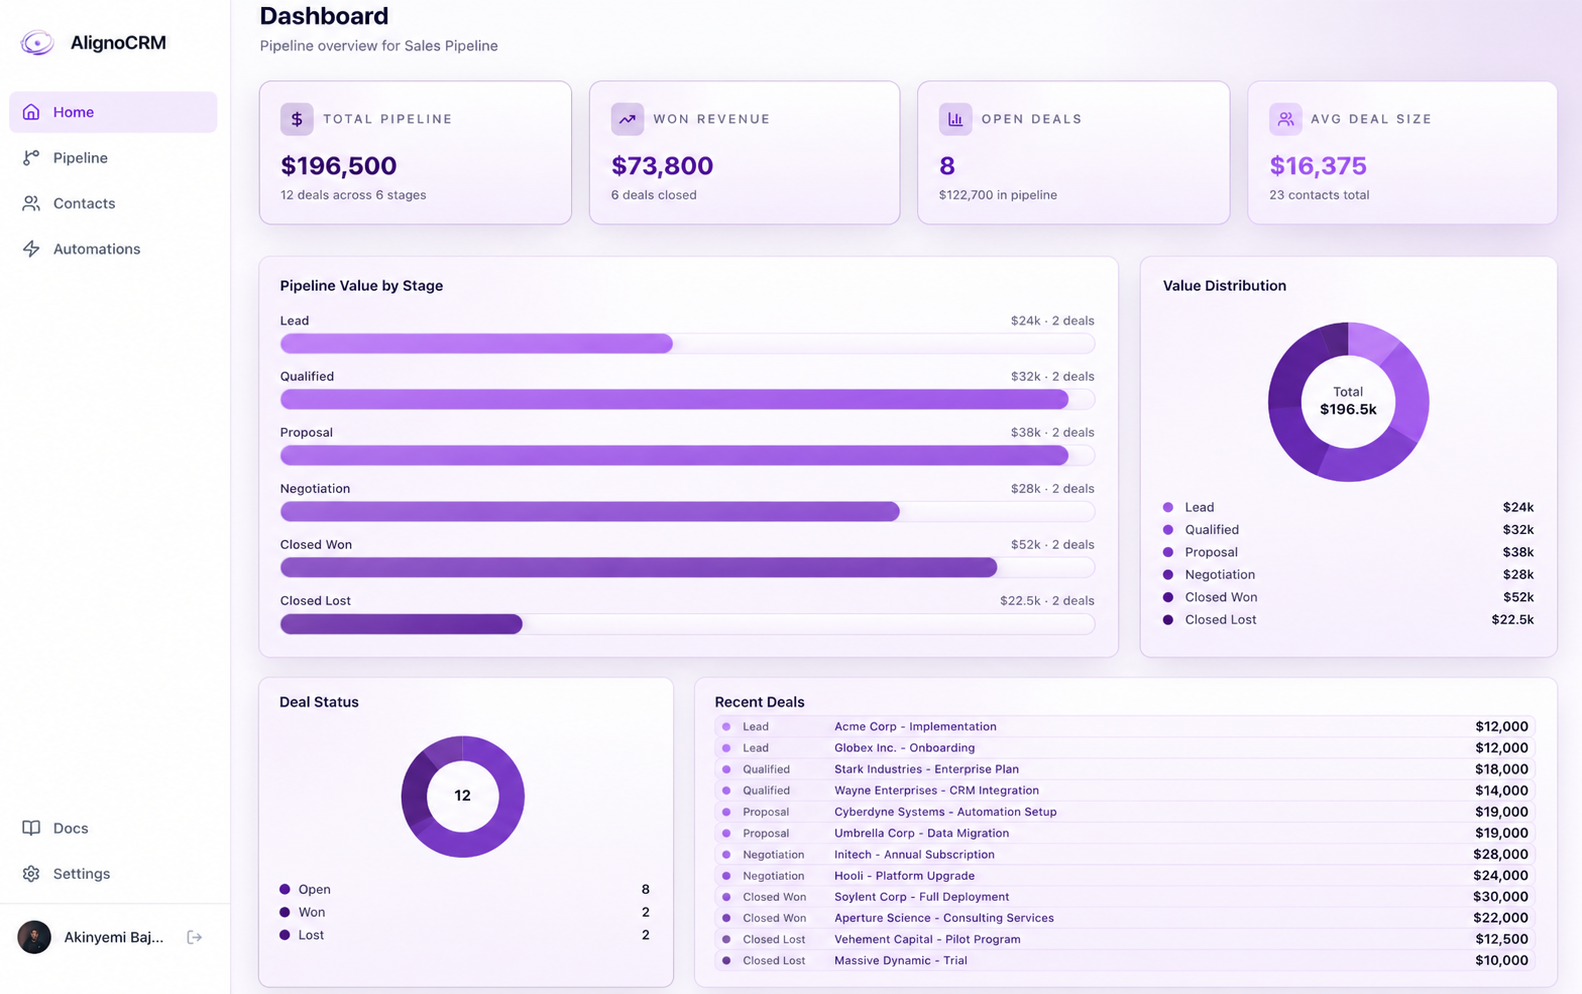
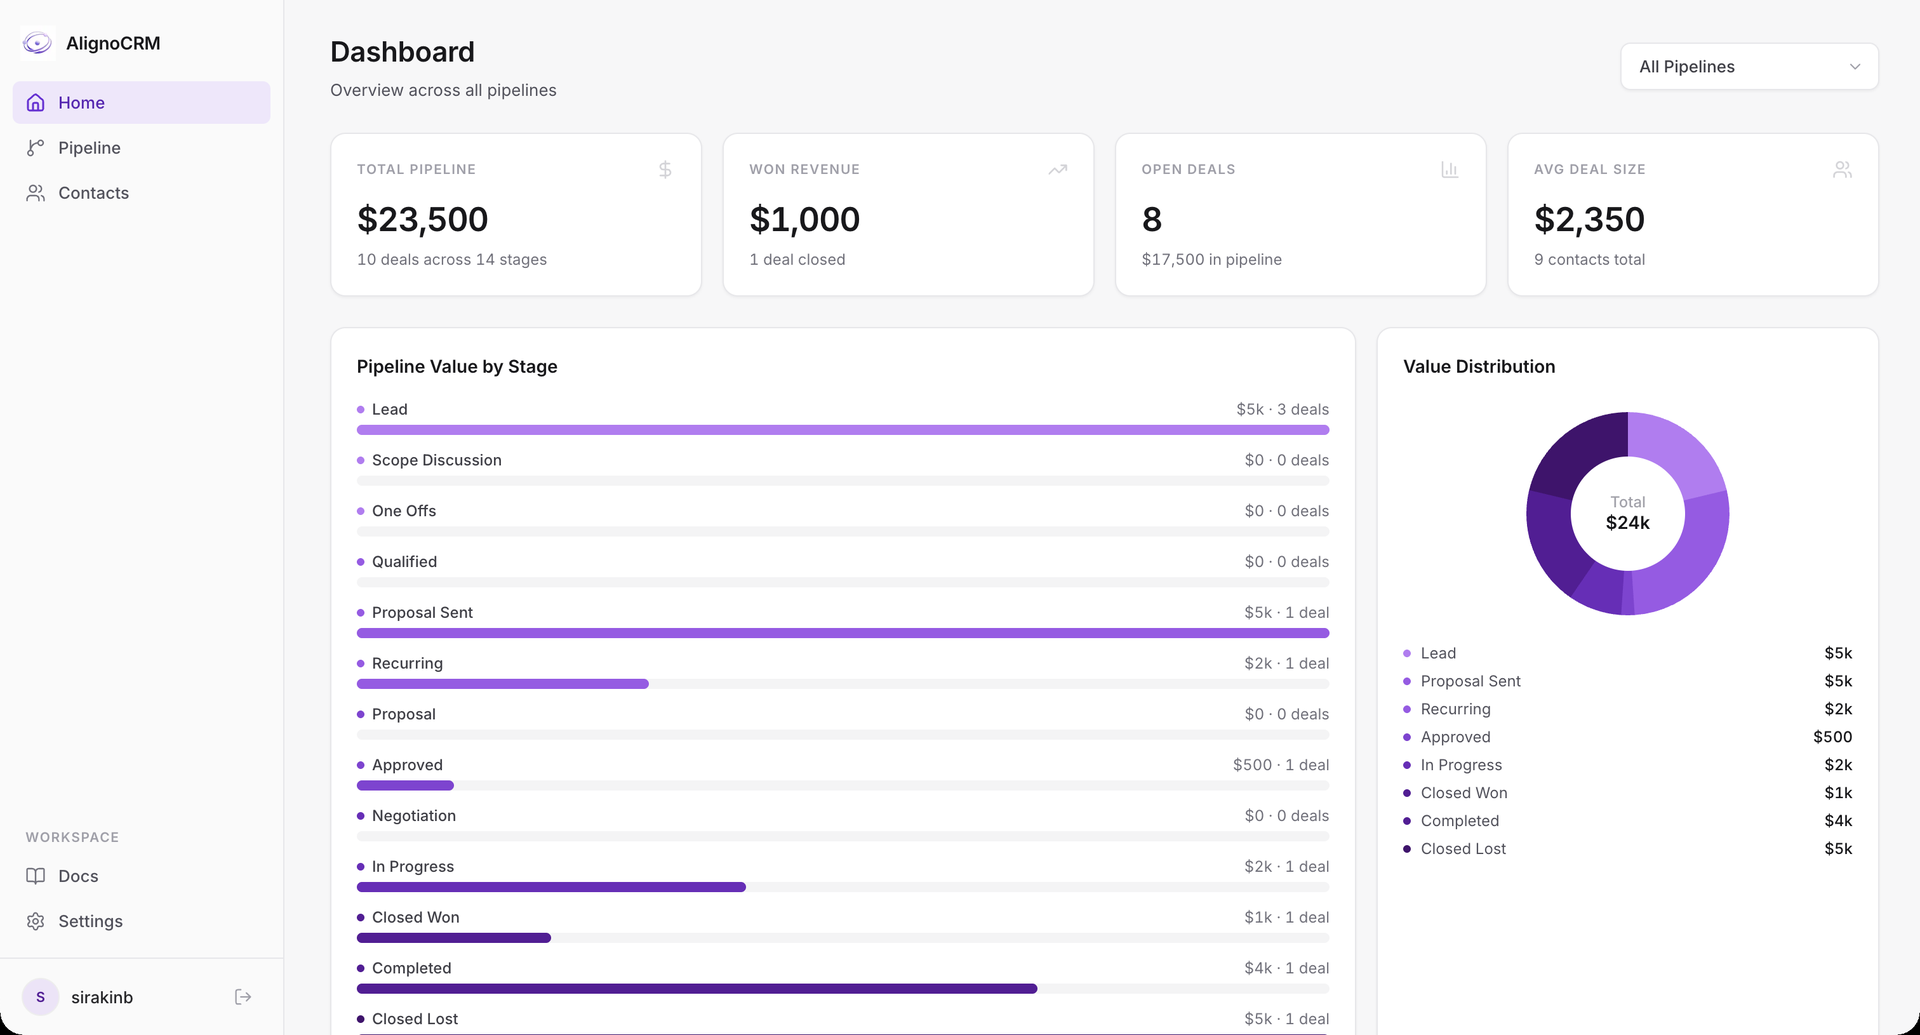
Update landing screenshot to new dashboard design, make email sender configurable
- Replace public/dashboard.png with the redesigned dashboard (no Automations in sidebar)
- Route all Resend sends through EMAIL_FROM env var (falls back to current sender) ahead of alignocrm.com domain cutover

diff --git a/src/app/page.tsx b/src/app/page.tsx
@@ -250,9 +250,9 @@ export default function LandingPage() {
             {/* Screenshot */}
             <Image
               src="/dashboard.png"
-              alt="Aligno CRM app screenshot showing the pipeline view"
+              alt="Aligno CRM app screenshot showing the dashboard view"
               width={1920}
-              height={1080}
+              height={1035}
               className="block w-full"
               priority
             />

diff --git a/src/app/api/organizations/invites/route.ts b/src/app/api/organizations/invites/route.ts
@@ -48,7 +48,7 @@ export async function POST(request: Request) {
       try {
         const resend = new Resend(process.env.RESEND_API_KEY);
         await resend.emails.send({
-          from: "AlignoCRM <aki.b@pentridgemedia.com>",
+          from: process.env.EMAIL_FROM ?? "AlignoCRM <aki.b@pentridgemedia.com>",
           to: email,
           subject: `You've been invited to join ${orgName} on AlignoCRM`,
           html: `

diff --git a/src/lib/messaging/email-service.ts b/src/lib/messaging/email-service.ts
@@ -38,7 +38,7 @@ export class ResendEmailProvider implements EmailProvider {
     body: string;
   }): Promise<EmailSendResult> {
     const { data, error } = await this.getClient().emails.send({
-      from: "aki.b@pentridgemedia.com",
+      from: process.env.EMAIL_FROM ?? "aki.b@pentridgemedia.com",
       to: input.to,
       subject: input.subject,
       html: input.body,
